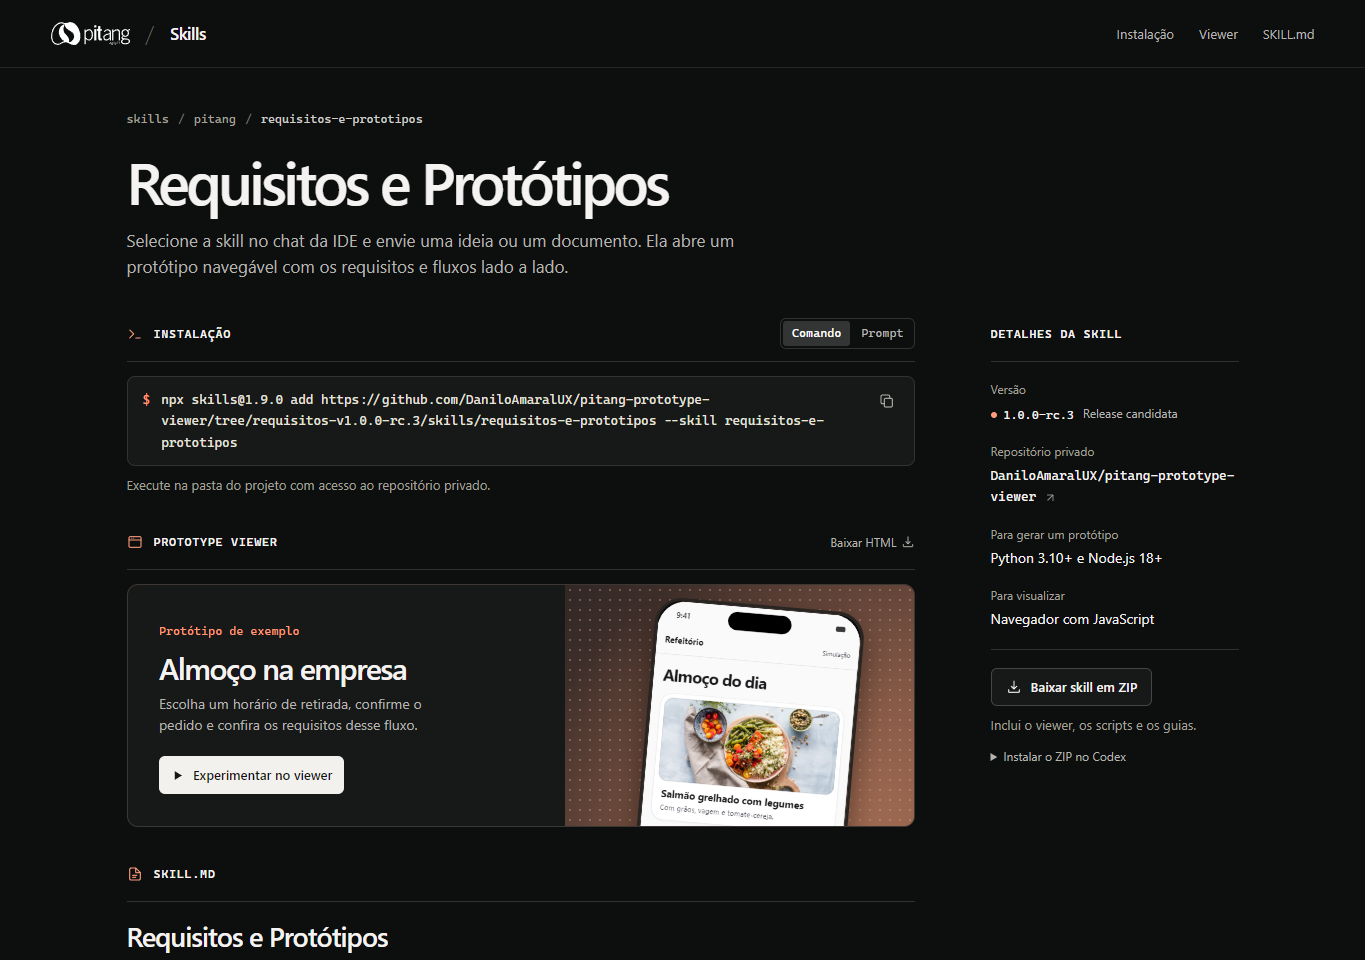
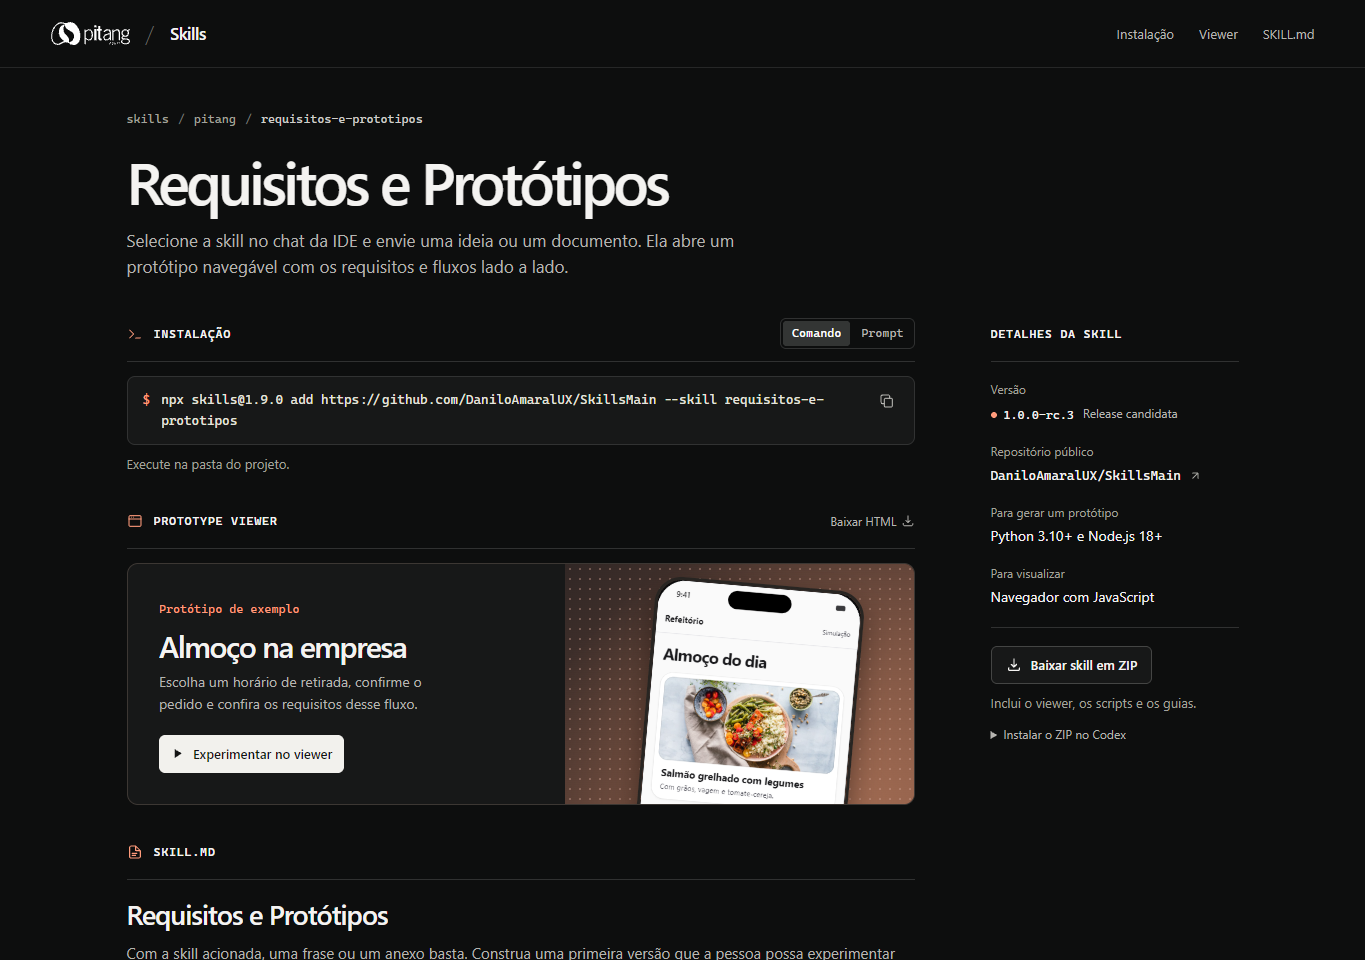
Direciona a instalação pública ao SkillsMain

diff --git a/index.html b/index.html
@@ -60,12 +60,12 @@
           <div id="install-panel" role="tabpanel" aria-labelledby="tab-comando" tabindex="0">
             <div class="snippet">
               <span id="prefix" aria-hidden="true">$</span>
-              <code id="install-text">npx skills@1.9.0 add https://github.com/DaniloAmaralUX/pitang-prototype-viewer/tree/requisitos-v1.0.0-rc.3/skills/requisitos-e-prototipos --skill requisitos-e-prototipos</code>
+              <code id="install-text">npx skills@1.9.0 add https://github.com/DaniloAmaralUX/SkillsMain --skill requisitos-e-prototipos</code>
               <button type="button" class="copy" id="copy-install" aria-label="Copiar comando de instalação" title="Copiar comando de instalação">
                 <svg class="icon" aria-hidden="true"><use href="#i-copy"/></svg>
               </button>
             </div>
-            <p class="hint" id="install-hint">Execute na pasta do projeto com acesso ao repositório privado.</p>
+            <p class="hint" id="install-hint">Execute na pasta do projeto.</p>
           </div>
           <span class="sr-only" role="status" id="copy-status"></span>
         </section>
@@ -99,7 +99,7 @@
         <h2 class="aside-title" id="details-title">Detalhes da skill</h2>
         <dl>
           <dt>Versão</dt><dd><span class="version"><span aria-hidden="true"></span>1.0.0-rc.3</span><small>Release candidata</small></dd>
-          <dt>Repositório privado</dt><dd><a class="repo-link" href="https://github.com/DaniloAmaralUX/pitang-prototype-viewer" target="_blank" rel="noopener">DaniloAmaralUX/<wbr>pitang-prototype-viewer <svg class="icon"><use href="#i-external"/></svg></a></dd>
+          <dt>Repositório público</dt><dd><a class="repo-link" href="https://github.com/DaniloAmaralUX/SkillsMain" target="_blank" rel="noopener">DaniloAmaralUX/<wbr>SkillsMain <svg class="icon"><use href="#i-external"/></svg></a></dd>
           <dt>Para gerar um protótipo</dt><dd>Python 3.10+ e Node.js 18+</dd>
           <dt>Para visualizar</dt><dd>Navegador com JavaScript</dd>
         </dl>

diff --git a/pagina.js b/pagina.js
@@ -5,14 +5,14 @@
     {
       tab: document.getElementById("tab-comando"),
       text: command,
-      hint: "Execute na pasta do projeto com acesso ao repositório privado.",
+      hint: "Execute na pasta do projeto.",
       copyLabel: "Copiar comando de instalação",
       prefix: "$",
     },
     {
       tab: document.getElementById("tab-prompt"),
       text: "Instale a skill Requisitos e Protótipos neste projeto usando o comando " + command,
-      hint: "Envie ao agente no chat da IDE com o projeto aberto e acesso ao repositório privado.",
+      hint: "Envie ao agente no chat da IDE com o projeto aberto.",
       copyLabel: "Copiar prompt de instalação",
       prefix: "›",
     },
